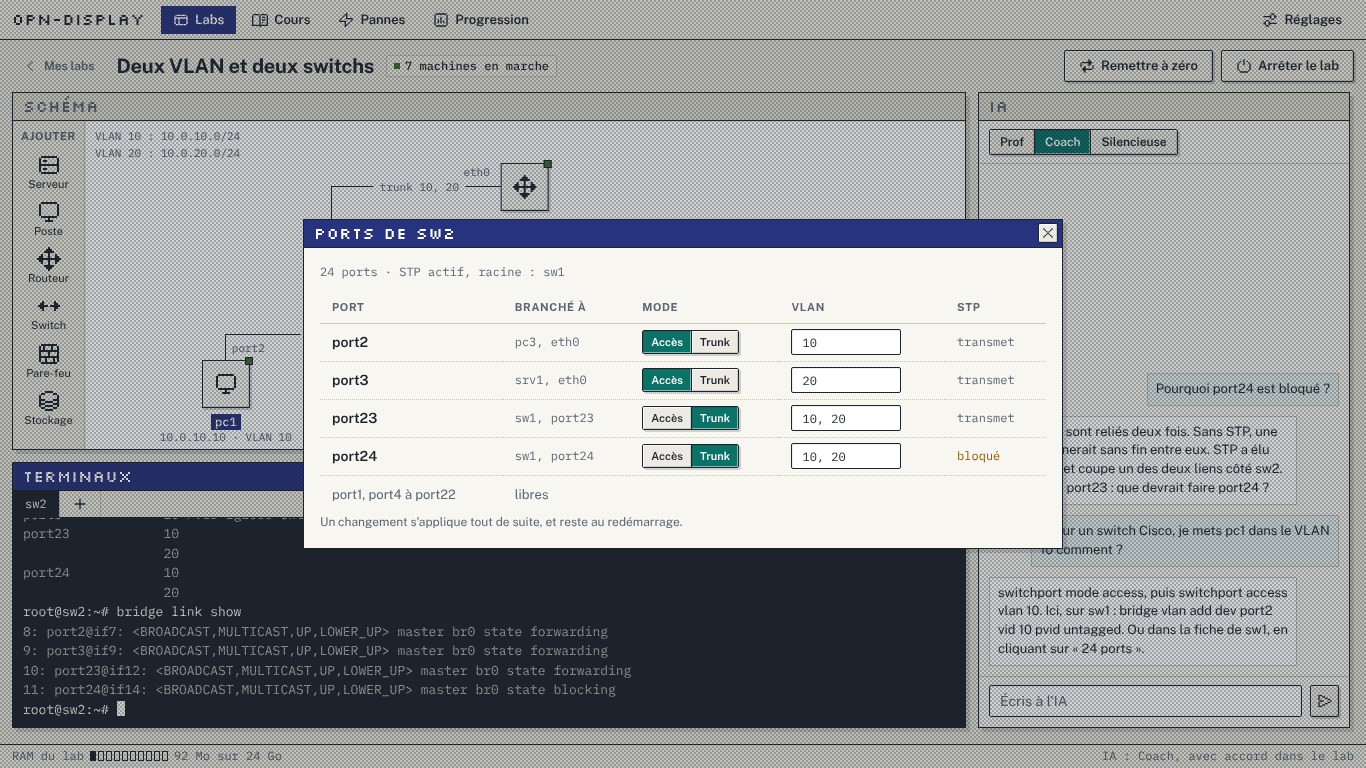
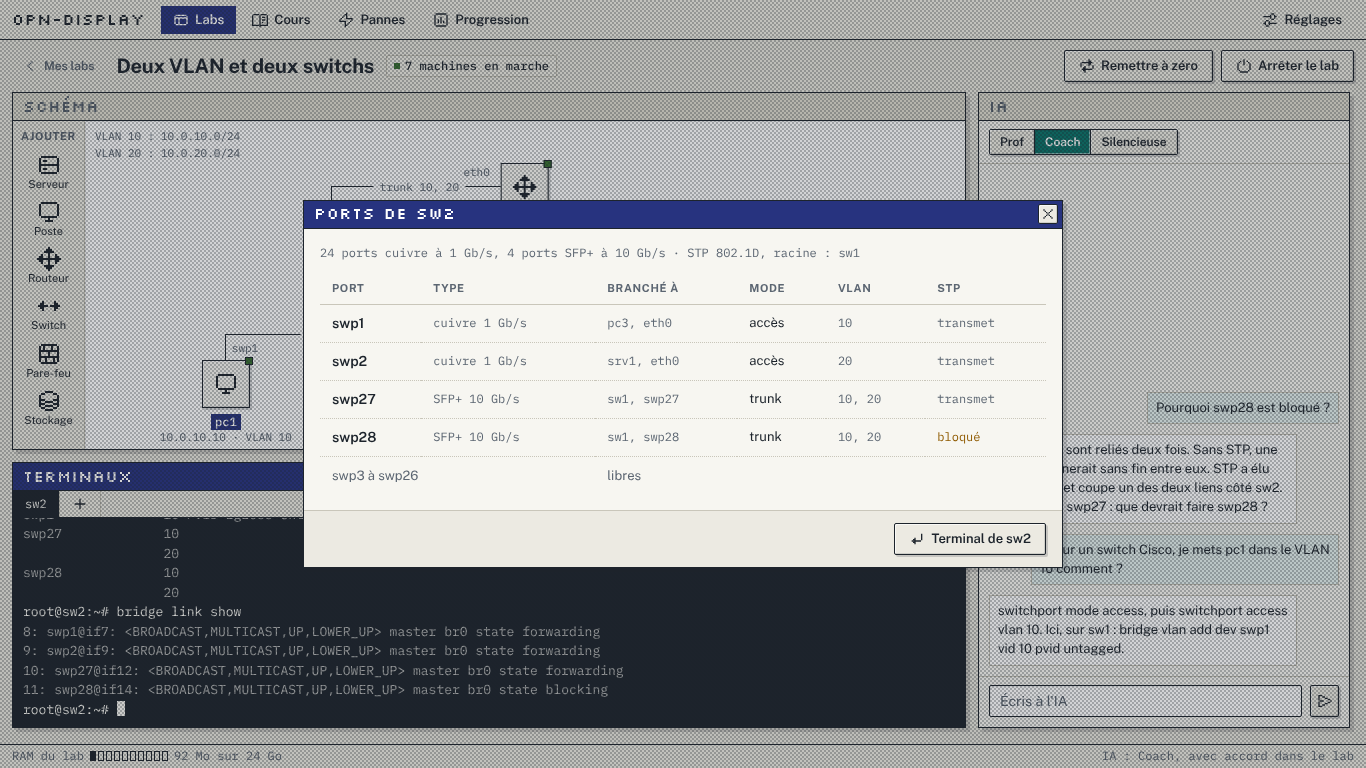
Étape 5 : fidèle à la réalité, les choix refaits
Le mainteneur veut que l'app soit fidèle à la réalité, et que Claude le
dise quand un choix s'en éloigne. Un vrai switch Linux, ses ports swp
avec leur type (cuivre 1 Gb/s, SFP+ 10 Gb/s), une fiche qui montre et un
terminal qui règle, le routage entre VLAN des deux façons. RSTP attend
Linux 7.1 dans un conteneur : le STP d'origine en attendant, lu à la
source dans le noyau.

Claude-Session: https://claude.ai/code/session_01DhUPMZom6YC3hajwVuvtrY

diff --git a/maquettes/ecrans/switch-ports.html b/maquettes/ecrans/switch-ports.html
@@ -63,15 +63,15 @@
           <span class="reseau reseau--bloque" style="left:50%;top:54%">bloqué par STP</span>
 
           <span class="port" style="left:44.5%;top:20%">eth0</span>
-          <span class="port port--cote" style="left:28%;top:31%">port1</span>
-          <span class="port" style="left:35%;top:43%">port23</span>
-          <span class="port" style="left:65%;top:43%">port23</span>
-          <span class="port" style="left:35%;top:54%">port24</span>
-          <span class="port" style="left:65%;top:54%">port24</span>
-          <span class="port port--cote" style="left:16%;top:69%">port2</span>
-          <span class="port port--cote" style="left:40%;top:69%">port3</span>
-          <span class="port port--cote" style="left:60%;top:69%">port2</span>
-          <span class="port port--cote" style="left:84%;top:69%">port3</span>
+          <span class="port port--cote" style="left:28%;top:31%">swp25</span>
+          <span class="port" style="left:35%;top:43%">swp27</span>
+          <span class="port" style="left:65%;top:43%">swp27</span>
+          <span class="port" style="left:35%;top:54%">swp28</span>
+          <span class="port" style="left:65%;top:54%">swp28</span>
+          <span class="port port--cote" style="left:16%;top:69%">swp1</span>
+          <span class="port port--cote" style="left:40%;top:69%">swp2</span>
+          <span class="port port--cote" style="left:60%;top:69%">swp1</span>
+          <span class="port port--cote" style="left:84%;top:69%">swp2</span>
 
           <div class="machine" style="left:50%;top:20%">
             <span class="machine-case"><i class="ic ic-24 i-routeur"></i></span>
@@ -81,12 +81,12 @@
           <div class="machine" style="left:28%;top:47%">
             <span class="machine-case"><i class="ic ic-24 i-switch"></i></span>
             <span class="machine-nom">sw1</span>
-            <button class="machine-ports">24 ports</button>
+            <button class="machine-ports">28 ports</button>
           </div>
           <div class="machine" style="left:72%;top:47%">
             <span class="machine-case"><i class="ic ic-24 i-switch"></i></span>
             <span class="machine-nom">sw2</span>
-            <button class="machine-ports">24 ports</button>
+            <button class="machine-ports">28 ports</button>
           </div>
           <div class="machine machine--choisie" style="left:16%;top:80%">
             <span class="machine-case"><i class="ic ic-24 i-poste"></i></span>
@@ -129,17 +129,17 @@
             </div>
 <div class="ecran"><pre>root@sw2:~# bridge vlan show
 <span class="sortie">port              vlan-id
-port2             10 PVID Egress Untagged
-port3             20 PVID Egress Untagged
-port23            10
+swp1              10 PVID Egress Untagged
+swp2              20 PVID Egress Untagged
+swp27             10
                   20
-port24            10
+swp28             10
                   20</span>
 root@sw2:~# bridge link show
-<span class="sortie">8: port2@if7: &lt;BROADCAST,MULTICAST,UP,LOWER_UP&gt; master br0 state forwarding
-9: port3@if9: &lt;BROADCAST,MULTICAST,UP,LOWER_UP&gt; master br0 state forwarding
-10: port23@if12: &lt;BROADCAST,MULTICAST,UP,LOWER_UP&gt; master br0 state forwarding
-11: port24@if14: &lt;BROADCAST,MULTICAST,UP,LOWER_UP&gt; master br0 state blocking</span>
+<span class="sortie">8: swp1@if7: &lt;BROADCAST,MULTICAST,UP,LOWER_UP&gt; master br0 state forwarding
+9: swp2@if9: &lt;BROADCAST,MULTICAST,UP,LOWER_UP&gt; master br0 state forwarding
+10: swp27@if12: &lt;BROADCAST,MULTICAST,UP,LOWER_UP&gt; master br0 state forwarding
+11: swp28@if14: &lt;BROADCAST,MULTICAST,UP,LOWER_UP&gt; master br0 state blocking</span>
 root@sw2:~# <span class="curseur"></span></pre></div>
           </div>
           <div class="terminal">
@@ -176,10 +176,10 @@ root@pc1:~# <span class="curseur"></span></pre></div>
           </div>
         </div>
         <div class="ia-fil">
-          <p class="mot mot--toi">Pourquoi port24 est bloqué ?</p>
-          <p class="mot mot--ia">sw1 et sw2 sont reliés deux fois. Sans STP, une trame tournerait sans fin entre eux. STP a élu sw1 racine et coupe un des deux liens côté sw2. Débranche port23 : que devrait faire port24 ?</p>
+          <p class="mot mot--toi">Pourquoi swp28 est bloqué ?</p>
+          <p class="mot mot--ia">sw1 et sw2 sont reliés deux fois. Sans STP, une trame tournerait sans fin entre eux. STP a élu sw1 racine et coupe un des deux liens côté sw2. Débranche swp27 : que devrait faire swp28 ?</p>
           <p class="mot mot--toi">Et sur un switch Cisco, je mets pc1 dans le VLAN 10 comment ?</p>
-          <p class="mot mot--ia">switchport mode access, puis switchport access vlan 10. Ici, sur sw1 : bridge vlan add dev port2 vid 10 pvid untagged. Ou dans la fiche de sw1, en cliquant sur « 24 ports ».</p>
+          <p class="mot mot--ia">switchport mode access, puis switchport access vlan 10. Ici, sur sw1 : bridge vlan add dev swp1 vid 10 pvid untagged.</p>
         </div>
         <div class="ia-saisie">
           <input class="oc-input" type="text" placeholder="Écris à l'IA" aria-label="Écrire à l'IA">
@@ -202,47 +202,22 @@ root@pc1:~# <span class="curseur"></span></pre></div>
       <button class="oc-window__btn" aria-label="Fermer"><i class="ic i-fermer"></i></button>
     </header>
     <div class="oc-window__body">
-      <p class="mono ports-tete">24 ports · STP actif, racine : sw1</p>
+      <p class="mono ports-tete">24 ports cuivre à 1 Gb/s, 4 ports SFP+ à 10 Gb/s · STP 802.1D, racine : sw1</p>
       <table class="table ports">
         <thead>
-          <tr><th>Port</th><th>Branché à</th><th>Mode</th><th>VLAN</th><th>STP</th></tr>
+          <tr><th>Port</th><th>Type</th><th>Branché à</th><th>Mode</th><th>VLAN</th><th>STP</th></tr>
         </thead>
         <tbody>
-          <tr>
-            <td class="nom">port2</td>
-            <td class="chiffre">pc3, eth0</td>
-            <td><div class="segments" role="group" aria-label="Mode de port2"><button aria-pressed="true">Accès</button><button aria-pressed="false">Trunk</button></div></td>
-            <td><input class="oc-input" type="text" value="10" aria-label="VLAN de port2"></td>
-            <td class="chiffre">transmet</td>
-          </tr>
-          <tr>
-            <td class="nom">port3</td>
-            <td class="chiffre">srv1, eth0</td>
-            <td><div class="segments" role="group" aria-label="Mode de port3"><button aria-pressed="true">Accès</button><button aria-pressed="false">Trunk</button></div></td>
-            <td><input class="oc-input" type="text" value="20" aria-label="VLAN de port3"></td>
-            <td class="chiffre">transmet</td>
-          </tr>
-          <tr>
-            <td class="nom">port23</td>
-            <td class="chiffre">sw1, port23</td>
-            <td><div class="segments" role="group" aria-label="Mode de port23"><button aria-pressed="false">Accès</button><button aria-pressed="true">Trunk</button></div></td>
-            <td><input class="oc-input" type="text" value="10, 20" aria-label="VLAN de port23"></td>
-            <td class="chiffre">transmet</td>
-          </tr>
-          <tr>
-            <td class="nom">port24</td>
-            <td class="chiffre">sw1, port24</td>
-            <td><div class="segments" role="group" aria-label="Mode de port24"><button aria-pressed="false">Accès</button><button aria-pressed="true">Trunk</button></div></td>
-            <td><input class="oc-input" type="text" value="10, 20" aria-label="VLAN de port24"></td>
-            <td class="chiffre stp-bloque">bloqué</td>
-          </tr>
-          <tr class="libres">
-            <td>port1, port4 à port22</td>
-            <td colspan="4">libres</td>
-          </tr>
+          <tr><td class="nom">swp1</td><td class="chiffre">cuivre 1 Gb/s</td><td class="chiffre">pc3, eth0</td><td>accès</td><td class="chiffre">10</td><td class="chiffre">transmet</td></tr>
+          <tr><td class="nom">swp2</td><td class="chiffre">cuivre 1 Gb/s</td><td class="chiffre">srv1, eth0</td><td>accès</td><td class="chiffre">20</td><td class="chiffre">transmet</td></tr>
+          <tr><td class="nom">swp27</td><td class="chiffre">SFP+ 10 Gb/s</td><td class="chiffre">sw1, swp27</td><td>trunk</td><td class="chiffre">10, 20</td><td class="chiffre">transmet</td></tr>
+          <tr><td class="nom">swp28</td><td class="chiffre">SFP+ 10 Gb/s</td><td class="chiffre">sw1, swp28</td><td>trunk</td><td class="chiffre">10, 20</td><td class="chiffre stp-bloque">bloqué</td></tr>
+          <tr class="libres"><td colspan="2">swp3 à swp26</td><td colspan="4">libres</td></tr>
         </tbody>
       </table>
-      <p class="note">Un changement s'applique tout de suite, et reste au redémarrage.</p>
+      <div class="oc-dialog__foot">
+        <button class="oc-btn"><i class="ic i-taper"></i>Terminal de sw2</button>
+      </div>
     </div>
   </section>
 </div>

diff --git a/maquettes/ecrans/lab-vlan.html b/maquettes/ecrans/lab-vlan.html
@@ -63,15 +63,15 @@
           <span class="reseau reseau--bloque" style="left:50%;top:54%">bloqué par STP</span>
 
           <span class="port" style="left:44.5%;top:20%">eth0</span>
-          <span class="port port--cote" style="left:28%;top:31%">port1</span>
-          <span class="port" style="left:35%;top:43%">port23</span>
-          <span class="port" style="left:65%;top:43%">port23</span>
-          <span class="port" style="left:35%;top:54%">port24</span>
-          <span class="port" style="left:65%;top:54%">port24</span>
-          <span class="port port--cote" style="left:16%;top:69%">port2</span>
-          <span class="port port--cote" style="left:40%;top:69%">port3</span>
-          <span class="port port--cote" style="left:60%;top:69%">port2</span>
-          <span class="port port--cote" style="left:84%;top:69%">port3</span>
+          <span class="port port--cote" style="left:28%;top:31%">swp25</span>
+          <span class="port" style="left:35%;top:43%">swp27</span>
+          <span class="port" style="left:65%;top:43%">swp27</span>
+          <span class="port" style="left:35%;top:54%">swp28</span>
+          <span class="port" style="left:65%;top:54%">swp28</span>
+          <span class="port port--cote" style="left:16%;top:69%">swp1</span>
+          <span class="port port--cote" style="left:40%;top:69%">swp2</span>
+          <span class="port port--cote" style="left:60%;top:69%">swp1</span>
+          <span class="port port--cote" style="left:84%;top:69%">swp2</span>
 
           <div class="machine" style="left:50%;top:20%">
             <span class="machine-case"><i class="ic ic-24 i-routeur"></i></span>
@@ -81,12 +81,12 @@
           <div class="machine" style="left:28%;top:47%">
             <span class="machine-case"><i class="ic ic-24 i-switch"></i></span>
             <span class="machine-nom">sw1</span>
-            <button class="machine-ports">24 ports</button>
+            <button class="machine-ports">28 ports</button>
           </div>
           <div class="machine" style="left:72%;top:47%">
             <span class="machine-case"><i class="ic ic-24 i-switch"></i></span>
             <span class="machine-nom">sw2</span>
-            <button class="machine-ports">24 ports</button>
+            <button class="machine-ports">28 ports</button>
           </div>
           <div class="machine machine--choisie" style="left:16%;top:80%">
             <span class="machine-case"><i class="ic ic-24 i-poste"></i></span>
@@ -129,17 +129,17 @@
             </div>
 <div class="ecran"><pre>root@sw2:~# bridge vlan show
 <span class="sortie">port              vlan-id
-port2             10 PVID Egress Untagged
-port3             20 PVID Egress Untagged
-port23            10
+swp1              10 PVID Egress Untagged
+swp2              20 PVID Egress Untagged
+swp27             10
                   20
-port24            10
+swp28             10
                   20</span>
 root@sw2:~# bridge link show
-<span class="sortie">8: port2@if7: &lt;BROADCAST,MULTICAST,UP,LOWER_UP&gt; master br0 state forwarding
-9: port3@if9: &lt;BROADCAST,MULTICAST,UP,LOWER_UP&gt; master br0 state forwarding
-10: port23@if12: &lt;BROADCAST,MULTICAST,UP,LOWER_UP&gt; master br0 state forwarding
-11: port24@if14: &lt;BROADCAST,MULTICAST,UP,LOWER_UP&gt; master br0 state blocking</span>
+<span class="sortie">8: swp1@if7: &lt;BROADCAST,MULTICAST,UP,LOWER_UP&gt; master br0 state forwarding
+9: swp2@if9: &lt;BROADCAST,MULTICAST,UP,LOWER_UP&gt; master br0 state forwarding
+10: swp27@if12: &lt;BROADCAST,MULTICAST,UP,LOWER_UP&gt; master br0 state forwarding
+11: swp28@if14: &lt;BROADCAST,MULTICAST,UP,LOWER_UP&gt; master br0 state blocking</span>
 root@sw2:~# <span class="curseur"></span></pre></div>
           </div>
           <div class="terminal">
@@ -176,10 +176,10 @@ root@pc1:~# <span class="curseur"></span></pre></div>
           </div>
         </div>
         <div class="ia-fil">
-          <p class="mot mot--toi">Pourquoi port24 est bloqué ?</p>
-          <p class="mot mot--ia">sw1 et sw2 sont reliés deux fois. Sans STP, une trame tournerait sans fin entre eux. STP a élu sw1 racine et coupe un des deux liens côté sw2. Débranche port23 : que devrait faire port24 ?</p>
+          <p class="mot mot--toi">Pourquoi swp28 est bloqué ?</p>
+          <p class="mot mot--ia">sw1 et sw2 sont reliés deux fois. Sans STP, une trame tournerait sans fin entre eux. STP a élu sw1 racine et coupe un des deux liens côté sw2. Débranche swp27 : que devrait faire swp28 ?</p>
           <p class="mot mot--toi">Et sur un switch Cisco, je mets pc1 dans le VLAN 10 comment ?</p>
-          <p class="mot mot--ia">switchport mode access, puis switchport access vlan 10. Ici, sur sw1 : bridge vlan add dev port2 vid 10 pvid untagged. Ou dans la fiche de sw1, en cliquant sur « 24 ports ».</p>
+          <p class="mot mot--ia">switchport mode access, puis switchport access vlan 10. Ici, sur sw1 : bridge vlan add dev swp1 vid 10 pvid untagged.</p>
         </div>
         <div class="ia-saisie">
           <input class="oc-input" type="text" placeholder="Écris à l'IA" aria-label="Écrire à l'IA">

diff --git a/docs/carnet.md b/docs/carnet.md
@@ -653,3 +653,34 @@ Puis ses trois réponses sur cette partie :
 
 La fiche du switch et les VLAN sur le schéma sont des écrans nouveaux :
 Claude en fait d'abord la maquette, et la montre avant de coder.
+
+### Fidèle à la réalité
+
+Devant les maquettes des VLAN, le mainteneur a demandé : « il faut que ce
+soit fidèle à la réalité. Même quand j'ai tort dans mes choix, dis-le moi.
+Je pense que je me suis trompé. » Claude a reposé les questions en disant
+ce qui se fait en vrai. Ses réponses :
+
+- Les commandes des switchs : il a laissé Claude choisir (« le meilleur des
+  choix »). Claude a retenu un vrai switch Linux : de vraies commandes
+  (`bridge`, `ip`), qui font vraiment passer les trames. Une console qui
+  imite Cisco serait une imitation. L'IA donne l'équivalent Cisco, et le
+  vrai Cisco passe par Packet Tracer et CML, au pilotage.
+- STP : il a laissé Claude choisir. Claude voulait RSTP, comme en
+  entreprise, mais ce n'est pas possible aujourd'hui : dans un conteneur, le
+  noyau ne laisse un démon comme mstpd piloter le pont qu'à partir de
+  Linux 7.1, et le noyau de WSL2 est en 6.6 ou 6.18 ([mesures.md](mesures.md),
+  partie 16). Ce sera donc le STP d'origine (802.1D) : la même élection de
+  la racine et les mêmes ports bloqués, mais plus lent à se rattraper. RSTP
+  viendra avec un noyau de WSL2 plus récent, ou avec les switchs en VM.
+- La fiche du switch montre, et le terminal règle (« Elle montre, le
+  terminal règle »), comme sur un switch d'entreprise. Le réglage en
+  cliquant est abandonné.
+- Le routage entre VLAN se fait des deux façons (« Les deux façons ») : sur
+  un switch de niveau 3, avec une interface par VLAN, et sur un routeur
+  relié par un trunk.
+- Les noms des ports : le mainteneur pensait qu'ils dépendaient du câble.
+  En vrai, ils dépendent du port, de son type et de sa vitesse, et le câble
+  suit le port. Claude a retenu swp1, swp2… Linux refuse les noms à barre
+  oblique comme Gi1/0/1. Un switch de 24 ports a en plus 4 ports SFP+ à
+  10 Gb/s, comme les vrais, pour relier les switchs et le routeur.

diff --git a/maquettes/README.md b/maquettes/README.md
@@ -93,7 +93,8 @@ idées.
 
 ## Les VLAN et la fiche du switch
 
-Retenu par Claude le 23 novembre 2026, pour l'étape 5.
+Retenu par Claude le 23 novembre 2026, pour l'étape 5, puis refait le même
+jour pour être fidèle à la réalité.
 
 - Les VLAN se disent en texte : la plage de chaque VLAN en haut à gauche du
   schéma, et le VLAN sous l'adresse de chaque poste. Pas de couleur : celles
@@ -101,14 +102,14 @@ Retenu par Claude le 23 novembre 2026, pour l'étape 5.
   prévenir).
 - Un trunk porte « trunk 10, 20 ». Un lien que STP a bloqué reste dessiné,
   en pointillé, avec « bloqué par STP » en ambre.
-- Les ports d'un switch s'appellent port1 à port24. Linux refuse la barre
-  oblique des noms Cisco, comme Gi0/1.
-- Sous le nom d'un switch, « 24 ports » ouvre sa fiche : chaque port
-  branché, la machine en face, son mode (accès ou trunk), ses VLAN et son
-  état STP. Les ports libres tiennent en une ligne. La fiche dit aussi quel
-  switch est la racine STP.
-- Un changement dans la fiche s'applique tout de suite et reste au
-  redémarrage. Il n'y a donc pas de bouton « Enregistrer ».
+- Les ports s'appellent swp1, swp2… Un switch de 24 ports a 24 ports cuivre
+  à 1 Gb/s et 4 ports SFP+ à 10 Gb/s, qui relient les switchs et le
+  routeur, comme sur un vrai switch d'accès.
+- Sous le nom d'un switch, « 28 ports » ouvre sa fiche. Elle montre et ne
+  règle pas : chaque port branché, son type, la machine en face, son mode
+  (accès ou trunk), ses VLAN et son état STP, et quel switch est la racine.
+  Les ports libres tiennent en une ligne. On règle dans le terminal du
+  switch, et la fiche y mène.
 
 ## Ce que l'IA montre à droite
 

diff --git a/docs/mesures.md b/docs/mesures.md
@@ -499,3 +499,18 @@ La place des paquets qui manquent, lue dans l'index d'Ubuntu 24.04 (celui de
 Debian n'est pas joignable d'ici) : nftables et ses bibliothèques 1,4 Mo,
 tcpdump et libpcap 1,7 Mo, FRR et ses bibliothèques 22 Mo. L'image fait
 105 Mo. La taille pour Debian 13 se mesurera quand l'app préparera l'image.
+
+Lu le 23 novembre 2026 dans les sources du noyau Linux
+(`include/uapi/linux/if_link.h`, `net/bridge/br_stp_if.c`) : par défaut,
+le noyau ne confie un pont à un démon STP comme mstpd que dans le réseau de
+l'hôte ; dans un autre espace de noms, celui d'un conteneur, il garde son
+propre STP (802.1D). Le mode `BR_STP_MODE_USER`, qui le permet partout, est
+dans Linux 7.1 et 7.2, pas dans 6.6, 6.18, 6.19 ni 7.0. Les branches 6.6 et
+6.18 du noyau de WSL2 ne l'ont pas non plus. RSTP et MSTP avec mstpd ne
+tournent donc pas dans un switch en conteneur sous WSL2 aujourd'hui.
+
+Le nom des ports d'un switch sous Linux : la doc du noyau
+(`Documentation/networking/switchdev.rst`) conseille « swXpYsZ », le switch,
+le port et le sous-port. `ip` refuse la barre oblique, même dans un nom de
+remplacement (altname) : « Gi1/0/1 » est refusé, « gi1-0-1 » est accepté
+(essayé ici).

diff --git a/docs/architecture.md b/docs/architecture.md
@@ -92,9 +92,16 @@ RSTP et MSTP, FRR pour VRRP, OSPF et BGP. Ce qu'on sait de chacun est dans
 
 Les switchs, à l'étape 5 (23 novembre 2026) : un pont Linux qui filtre les
 VLAN, dans un conteneur Debian, avec le STP du noyau (802.1D) pour les
-liens en double. Un port est un VLAN d'accès ou un trunk 802.1Q. Le routage
-entre VLAN se fait sur un routeur Debian, une sous-interface par VLAN. Le
-noyau de WSL2 a tout cela ([mesures.md](mesures.md), partie 16).
+liens en double. Ses ports s'appellent swp1, swp2… : 8, 24 ou 48 ports en
+cuivre à 1 Gb/s, et 4 ports SFP+ à 10 Gb/s sur les modèles de 24 et 48. Un
+port est un VLAN d'accès ou un trunk 802.1Q. Le routage entre VLAN se fait
+sur un switch de niveau 3, une interface par VLAN, ou sur un routeur
+Debian relié par un trunk, une sous-interface par VLAN. Le noyau de WSL2 a
+tout cela ([mesures.md](mesures.md), partie 16).
+
+RSTP et MSTP attendent : dans un conteneur, le noyau ne laisse mstpd
+piloter un pont qu'à partir de Linux 7.1 (`BR_STP_MODE_USER`), et le noyau
+de WSL2 est en 6.6 ou 6.18.
 
 Sur chaque câble, comme GNS3, EVE-NG et CML : la capture (tcpdump dans le
 réseau d'une des deux machines), la coupure (un bout éteint), la

diff --git a/docs/projet.md b/docs/projet.md
@@ -99,10 +99,11 @@ switchs passent par Packet Tracer ou Cisco Modeling Labs. Cisco interdit de
 faire tourner ses images ailleurs. CML-Free est gratuit, avec 5 machines
 Cisco à la fois ([mesures.md](mesures.md), partie 10).
 
-Dans l'app, le VLAN d'un port de switch se règle de deux façons : dans le
-terminal du switch, avec les commandes Linux, et dans une fiche du switch,
-en cliquant sur le port, comme le switch de GNS3. L'IA donne l'équivalent
-Cisco (23 novembre 2026).
+Dans l'app, un switch est un vrai switch Linux : le VLAN d'un port se règle
+dans son terminal, avec les commandes Linux, comme sur un switch
+d'entreprise avec les siennes. Sa fiche, ouverte depuis le schéma, montre
+ses ports, leurs VLAN et leur état STP. L'IA donne l'équivalent Cisco
+(23 novembre 2026).
 
 ### L'IA supervise
 

diff --git a/CLAUDE.md b/CLAUDE.md
@@ -37,6 +37,9 @@ l'ordre de construction (le réseau) est en cours.
   dans la doc. Les recherches se sont déjà contredites.
 - Un changement visible (un écran, un bouton) est montré au mainteneur en
   captures avant d'être gardé.
+- Fidèle à la réalité : ce que l'app émule se fait comme en vrai. Quand un
+  choix s'en éloigne, même un choix du mainteneur, Claude le dit et explique
+  ce qui se fait en vrai (23 novembre 2026).
 - Pour les maquettes, le mainteneur a laissé la main à Claude (« C'est toi
   qui as la main », 16 novembre 2026). Claude décide, montre les captures et
   note ce qu'il a retenu. Le mainteneur peut revenir dessus. Ça ne vaut pas
